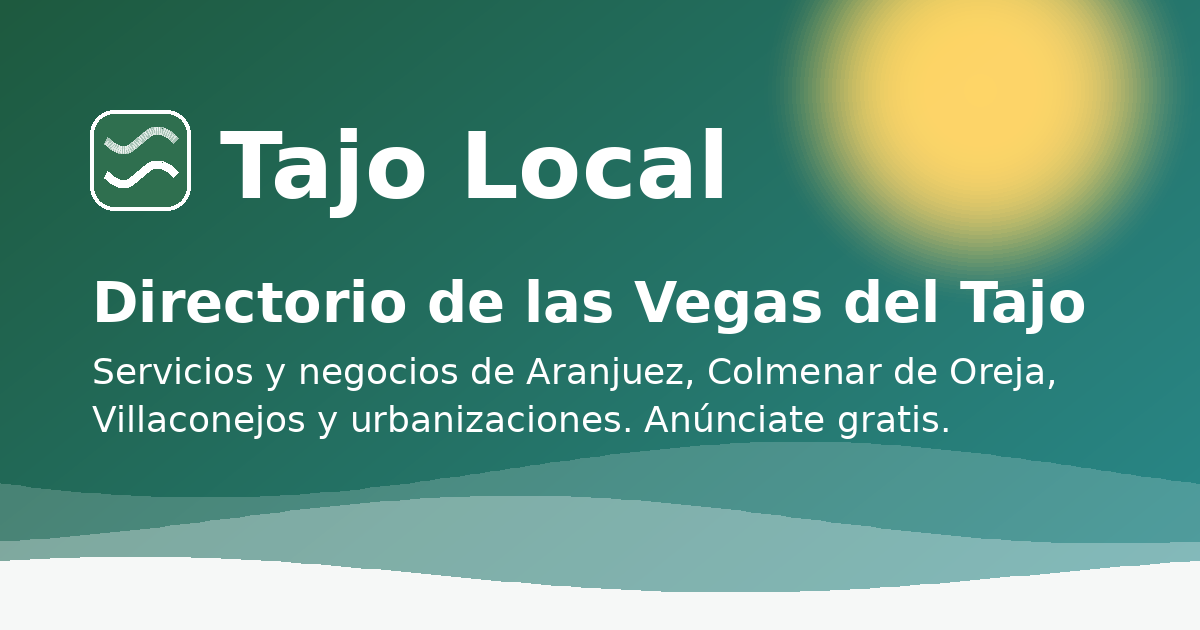
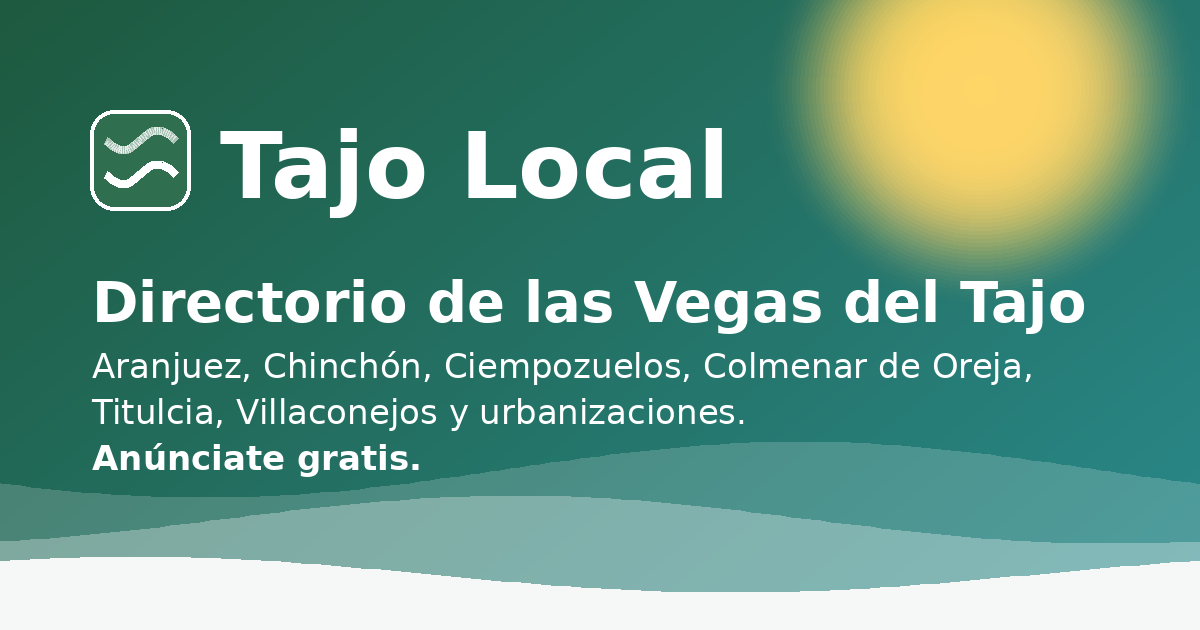
Add files via upload

Changed region(s): [[0.0617, 0.5429, 0.8942, 0.754]]

diff --git a/index.html b/index.html
@@ -4,13 +4,13 @@
 <meta charset="UTF-8">
 <meta name="viewport" content="width=device-width, initial-scale=1">
 <title>Tajo Local · Directorio de las Vegas del Tajo</title>
-<meta name="description" content="Directorio gratuito de servicios y negocios de las Vegas del Tajo: Aranjuez, Colmenar de Oreja, Villaconejos y urbanizaciones.">
+<meta name="description" content="Directorio gratuito de servicios y negocios de las Vegas del Tajo: Aranjuez, Chinchón, Ciempozuelos, Colmenar de Oreja, Titulcia, Villaconejos y urbanizaciones.">
 <meta name="theme-color" content="#2f6f4f">
 <meta property="og:type" content="website">
 <meta property="og:locale" content="es_ES">
 <meta property="og:site_name" content="Tajo Local">
 <meta property="og:title" content="Tajo Local · Directorio de las Vegas del Tajo">
-<meta property="og:description" content="Servicios y negocios de Aranjuez, Colmenar de Oreja, Villaconejos y urbanizaciones. Encuentra a quien necesitas o anuncia el tuyo, gratis.">
+<meta property="og:description" content="Servicios y negocios de Aranjuez, Chinchón, Ciempozuelos, Colmenar de Oreja, Titulcia, Villaconejos y urbanizaciones. Encuentra a quien necesitas o anuncia el tuyo, gratis.">
 <meta property="og:url" content="https://tajolocal.github.io/">
 <meta property="og:image" content="https://tajolocal.github.io/og.png">
 <meta property="og:image:width" content="1200">
@@ -122,7 +122,7 @@
     width: calc(100% + 36px); margin: -18px -18px 14px; height: 84px;
     border-radius: 14px 14px 0 0; font-size: 2.6rem; line-height: 1;
   }
-  .foto { display: block; width: calc(100% + 36px); margin: -18px -18px 14px; height: auto; max-height: 380px; object-fit: contain; border-radius: 14px 14px 0 0; background: #eef1f4; }
+  .foto { cursor: zoom-in; display: block; width: calc(100% + 36px); margin: -18px -18px 14px; height: auto; max-height: 380px; object-fit: contain; border-radius: 14px 14px 0 0; background: #eef1f4; }
   .ficha a.enlace { display: inline-block; margin-left: 14px; color: var(--verde); font-weight: 600; text-decoration: none; word-break: break-all; }
   .contador { display: block; text-align: right; color: var(--gris); font-size: .85rem; margin-top: 4px; }
   .previa { display: none; margin-top: 10px; max-width: 220px; border-radius: 10px; border: 1px solid var(--borde); }
@@ -180,6 +180,10 @@
   footer a { color: var(--verde); }
   dialog { border: 0; border-radius: 14px; max-width: 560px; padding: 24px; }
   dialog::backdrop { background: rgba(0,0,0,.4); }
+  #visor { background: transparent; padding: 0; max-width: 96vw; max-height: 96vh; overflow: visible; }
+  #visor::backdrop { background: rgba(0,0,0,.85); }
+  #visor img { display: block; max-width: 96vw; max-height: 88vh; margin: 0 auto; border-radius: 10px; background: #fff; }
+  #visor button { display: block; margin: 12px auto 0; }
 </style>
 </head>
 <body>
@@ -279,10 +283,12 @@
 </main>
 
 <footer>
-  Tajo Local · Web vecinal de las Vegas del Tajo (Aranjuez, Colmenar de Oreja, Villaconejos y urbanizaciones). Proyecto no oficial hecho por un vecino.<br>
+  Tajo Local · Web vecinal de las Vegas del Tajo (Aranjuez, Chinchón, Ciempozuelos, Colmenar de Oreja, Titulcia, Villaconejos y urbanizaciones). Proyecto no oficial hecho por un vecino.<br>
   <a href="#" onclick="document.getElementById('privacidad').showModal();return false;">Privacidad</a>
   · ¿Quieres borrar o cambiar tu anuncio? <a href="mailto:tajolocal@gmail.com">tajolocal@gmail.com</a>
 </footer>
+
+<dialog id="visor"><img id="visorImg" alt=""><button class="btn" type="button" id="visorCierra">Cerrar ✕</button></dialog>
 
 <dialog id="privacidad">
   <h2>Privacidad y condiciones de uso</h2>
@@ -315,8 +321,8 @@
 
   // "Toda la zona" solo se usa al anunciarse: el servicio llega a todos los municipios
   const ZONAS = [
-    "Aranjuez", "Colmenar de Oreja", "Villaconejos",
-    "Urbanizaciones de Colmenar"
+    "Aranjuez", "Chinchón", "Ciempozuelos", "Colmenar de Oreja",
+    "Titulcia", "Villaconejos", "Urbanizaciones de Colmenar"
   ];
   const TODA = "Toda la zona";
 
@@ -388,6 +394,25 @@
     if (!/^https?:\/\//i.test(u)) u = "https://" + u;
     return urlSegura(u);
   }
+  // Nombre amigable para redes sociales conocidas (si no, se muestra el dominio)
+  function etiquetaEnlace(u) {
+    let x;
+    try { x = new URL(u); } catch (e) { return "🔗 enlace"; }
+    const h = x.hostname.replace(/^www\./, "").replace(/^m\./, "").toLowerCase();
+    const seg = x.pathname.split("/").filter(Boolean)[0] || "";
+    const es = d => h === d || h.endsWith("." + d);
+    if (es("instagram.com")) return "📸 Instagram" + (seg && !/^(p|reel|stories|explore)$/i.test(seg) ? " @" + seg.replace(/^@/, "") : "");
+    if (es("tiktok.com")) return "🎵 TikTok" + (seg.startsWith("@") ? " " + seg : "");
+    if (es("facebook.com") || es("fb.com") || h === "fb.me") return "📘 Facebook";
+    if (es("youtube.com") || h === "youtu.be") return "▶ YouTube";
+    if (h === "wa.me" || es("whatsapp.com")) return "💬 WhatsApp";
+    if (es("linkedin.com")) return "💼 LinkedIn";
+    if (es("t.me") || es("telegram.me")) return "✈ Telegram";
+    if (es("x.com") || es("twitter.com")) return "🐦 X";
+    if (es("linktr.ee")) return "🔗 Linktree";
+    return "🔗 " + dominio(u);
+  }
+
   function dominio(u) {
     try { return new URL(u).hostname.replace(/^www\./, ""); } catch (e) { return "enlace"; }
   }
@@ -422,7 +447,7 @@
     );
     $("lista").innerHTML = res.slice(0, mostrados).map(n => `
       <article class="ficha">
-        ${n.foto && String(n.foto).startsWith(FOTOS_URL) ? `<img class="foto" src="${esc(n.foto)}" alt="${esc(n.nombre)}" loading="lazy">` : banda(cats(n.categoria)[0])}
+        ${n.foto && String(n.foto).startsWith(FOTOS_URL) ? `<img class="foto" src="${esc(n.foto)}" alt="${esc(n.nombre)} (pulsa para ampliar)" loading="lazy" tabindex="0" role="button">` : banda(cats(n.categoria)[0])}
         ${cats(n.categoria).map(c => `<span class="etiqueta">${esc(c)}</span>`).join(" ")}
         ${n.zona ? `<span class="etiqueta zona">📍 ${esc(n.zona)}</span>` : ""}
         <h3>${esc(n.nombre)}</h3>
@@ -431,7 +456,7 @@
           ${n.telefono ? `<a class="btn" href="tel:${esc(limpiaTel(n.telefono))}">📞 Llamar</a>` : ""}
           ${numWhatsApp(n.telefono) ? `<a class="btn wa" href="https://wa.me/${numWhatsApp(n.telefono)}?text=${encodeURIComponent("Hola, te he visto en Tajo Local.")}" target="_blank" rel="noopener noreferrer">💬 WhatsApp</a>` : ""}
           ${n.telefono ? `<span class="numero">${esc(n.telefono)}</span>` : ""}
-          ${urlSegura(n.enlace) ? `<a class="enlace" href="${esc(urlSegura(n.enlace))}" target="_blank" rel="noopener noreferrer nofollow ugc">🔗 ${esc(dominio(n.enlace))}</a>` : ""}
+          ${urlSegura(n.enlace) ? `<a class="enlace" href="${esc(urlSegura(n.enlace))}" target="_blank" rel="noopener noreferrer nofollow ugc">${esc(etiquetaEnlace(n.enlace))}</a>` : ""}
         </div>
         <a class="informar" href="${esc(informarUrl(n))}">⚑ Informar de un problema</a>
       </article>`).join("");
@@ -472,6 +497,18 @@
   $("buscar").addEventListener("input", reinicia);
   $("filtro").addEventListener("change", reinicia);
   $("filtroZona").addEventListener("change", reinicia);
+  // Ampliar la foto al pulsarla (clic o Enter), cerrar con clic fuera, botón o Esc
+  function abreFoto(img) {
+    $("visorImg").src = img.src;
+    $("visorImg").alt = img.alt.replace(" (pulsa para ampliar)", "");
+    $("visor").showModal();
+  }
+  $("lista").addEventListener("click", e => { if (e.target.classList.contains("foto")) abreFoto(e.target); });
+  $("lista").addEventListener("keydown", e => {
+    if ((e.key === "Enter" || e.key === " ") && e.target.classList.contains("foto")) { e.preventDefault(); abreFoto(e.target); }
+  });
+  $("visor").addEventListener("click", e => { if (e.target === $("visor")) $("visor").close(); });
+  $("visorCierra").addEventListener("click", () => $("visor").close());
   $("mas").addEventListener("click", () => { mostrados += PAGINA; pinta(); });
 
   // Accesos rápidos por zona en la cabecera
